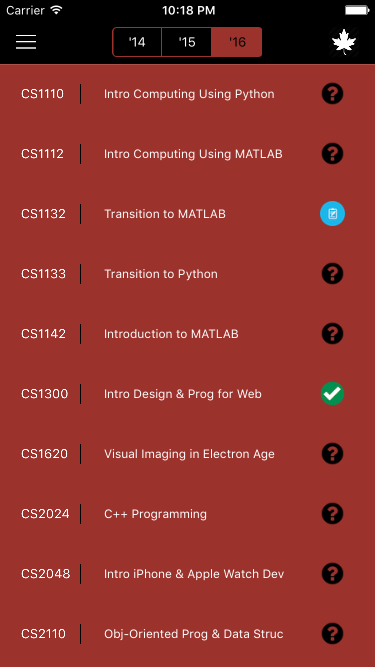
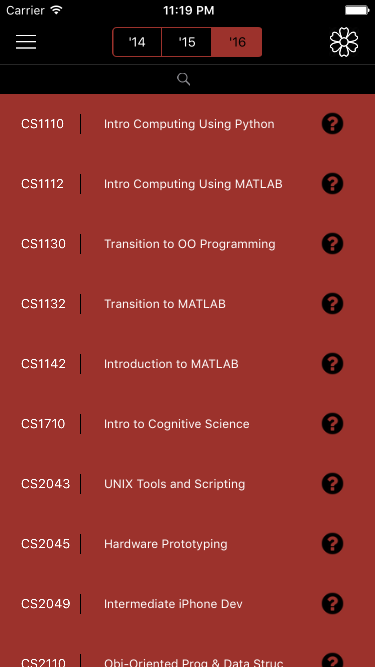
Bug fixes, ui changes, start writing vector classes

diff --git a/ClassGuide/Vector.swift b/ClassGuide/Vector.swift
@@ -1,0 +1,120 @@
+//
+//  Vector.swift
+//  ClassGuide
+//
+//  Created by Jesse Chen on 3/28/16.
+//  Copyright © 2016 Jesse Chen. All rights reserved.
+//
+
+import Foundation
+
+protocol Vector {
+    var requiredCourses: Int { get }
+    var completed: Bool { get set }
+    func updateProgress(takenCourses: NSMutableSet, plannedCourses: NSMutableSet)
+    func resetProgress()
+}
+
+class Renaissance: Vector {
+    let requiredCourses = 4
+    var completed: Bool
+    
+    //requires 4 Fxxx courses
+    var FxxxCourses = 0
+    //requires 2 different hundredths digits
+    var differentHundredths = 0
+    //requires at least one of the hundredths to be 2 or 8
+    var hundredthsIs2or8 = false
+    var seenHundredths: [Int] = []
+    
+    internal init() {
+        completed = false
+    }
+    
+    func updateProgress(takenCourses: NSMutableSet, plannedCourses: NSMutableSet) {
+        resetProgress()
+        var relevantCourses: [Course] = []
+        relevantCourses.appendContentsOf(takenCourses.allObjects as! [Course])
+        relevantCourses.appendContentsOf(plannedCourses.allObjects as! [Course])
+        for course in relevantCourses {
+            let courseIsFXXX = isFXXX(course)
+            if courseIsFXXX { FxxxCourses += 1 }
+            if courseIsFXXX && !seenHundredths.contains(getHundredthsDigit(course)) {
+                seenHundredths.append(getHundredthsDigit(course))
+                differentHundredths += 1
+            }
+            if getHundredthsDigit(course) == 2 || getHundredthsDigit(course) == 8 {
+                hundredthsIs2or8 = true
+            }
+        }
+        
+        if FxxxCourses >= 4 && differentHundredths >= 2 && hundredthsIs2or8 {
+            completed = true
+        }
+    }
+    
+    func resetProgress() {
+        FxxxCourses = 0
+        differentHundredths = 0
+        hundredthsIs2or8 = false
+        seenHundredths = []
+    }
+}
+
+class AI: Vector {
+    let requiredCourses = 4
+    var completed: Bool
+    var takenCS4700 = false
+    var takenCS4701 = false
+    var takenF78xOrF75x = false
+    var takenF7xxOr4300orF67xor5846 = false
+    
+    internal init() {
+        completed = false
+    }
+    
+    func updateProgress(takenCourses: NSMutableSet, plannedCourses: NSMutableSet) {
+        var relevantCourses: [Course] = []
+        relevantCourses.appendContentsOf(takenCourses.allObjects as! [Course])
+        relevantCourses.appendContentsOf(plannedCourses.allObjects as! [Course])
+        for course in relevantCourses {
+            if course.courseNumber == 4700 { takenCS4700 = true }
+            if course.courseNumber == 4701 { takenCS4701 = true }
+            if checkF78xOrF75x(course) { takenF78xOrF75x = true }
+            if checkF7xxor4300orF67xor5846(course) { takenF7xxOr4300orF67xor5846 = true }
+        }
+    }
+    
+    func resetProgress() {
+        takenCS4700 = false
+        takenCS4701 = false
+        takenF78xOrF75x = false
+        takenF7xxOr4300orF67xor5846 = false
+    }
+    
+    func checkF78xOrF75x(course: Course) -> Bool {
+        return getHundredthsDigit(course) == 7 && (getTenthsDigit(course) == 8 || getTenthsDigit(course) == 5) && isFXXX(course)
+    }
+    
+    func checkF7xxor4300orF67xor5846(course: Course) -> Bool {
+        return (
+            (isFXXX(course) && getHundredthsDigit(course) == 7) ||
+            course.courseNumber == 4300 ||
+            (isFXXX(course) && getHundredthsDigit(course) == 6 && getTenthsDigit(course) == 7) ||
+            course.courseNumber == 5846
+        )
+    }
+}
+
+
+
+
+
+
+
+
+
+
+
+
+

diff --git a/ClassGuide/CourseTableViewController.swift b/ClassGuide/CourseTableViewController.swift
@@ -41,10 +41,10 @@ class CourseTableViewController: UITableViewController, CoreDataDelegate, UISear
         super.viewDidLoad()
         if (initialLoad) {
             handleInitialLoad()
-        } else {
-            processCourses()
-            tableView.reloadData()
         }
+        processCourses()
+        tableView.reloadData()
+        
     }
     
     override func viewDidAppear(animated: Bool) {
@@ -120,6 +120,7 @@ class CourseTableViewController: UITableViewController, CoreDataDelegate, UISear
             print("Didn't have to fetch")
         }
         
+        navigationItem.title = "CS Courses"
         tableView.backgroundColor = .blackColor()
         tableView.registerNib(UINib(nibName: "CourseTableViewCell", bundle: nil), forCellReuseIdentifier: "HomeCell")
         addRevealVCButton()
@@ -135,6 +136,8 @@ class CourseTableViewController: UITableViewController, CoreDataDelegate, UISear
         searchBar = UISearchBar(frame: CGRectMake(0, 0, UIScreen.mainScreen().bounds.width, 30))
         searchBar.searchBarStyle = .Minimal
         searchBar.tintColor = UIColor.cornellRed
+        let textFieldInsideSearchBar = searchBar.valueForKey("searchField") as? UITextField
+        textFieldInsideSearchBar?.textColor = UIColor.cornellRed
         searchBar.delegate = self
         tableView.tableHeaderView = searchBar
     }
@@ -220,13 +223,13 @@ class CourseTableViewController: UITableViewController, CoreDataDelegate, UISear
         if searchQuery != "" {
             desiredCourses = desiredCourses.filter({ (c) -> Bool in
                 let options: NSStringCompareOptions = [.CaseInsensitiveSearch, .DiacriticInsensitiveSearch]
-                let courseIDFound: () -> Bool = {
-                    return String(c.courseID).rangeOfString(self.searchQuery, options: options) != nil
+                let courseNumberFound: () -> Bool = {
+                    return "\(c.courseNumber)".rangeOfString(self.searchQuery, options: options) != nil
                 }
                 let titleFound: () -> Bool = {
                     return c.titleLong.rangeOfString(self.searchQuery, options: options) != nil
                 }
-                return (courseIDFound() || titleFound())
+                return (courseNumberFound() || titleFound())
             })
         }
     }
@@ -274,6 +277,11 @@ class CourseTableViewController: UITableViewController, CoreDataDelegate, UISear
             plannedCourses.removeObject(course)
         }
         course.status = status
+        if course.status == .PlanTo {
+            plannedCourses.addObject(course)
+        } else if course.status == .Taken {
+            takenCourses.addObject(course)
+        }
         managedContext.deleteObject(courseToNSManagedObject[course]!) //delete the old entity
         createCourseEntity(course)
     }

diff --git a/ClassGuide/SidebarTableViewController.swift b/ClassGuide/SidebarTableViewController.swift
@@ -17,9 +17,12 @@ class SidebarTableViewController: UITableViewController {
     
     override func viewDidLoad() {
         super.viewDidLoad()
+        self.automaticallyAdjustsScrollViewInsets = false
+        let inset = UIEdgeInsetsMake(64, 0, 0, 0)
+        tableView.contentInset = inset
         tableView.delegate = self
+        tableView.backgroundColor = UIColor.darkGrey
         tableView.separatorStyle = .SingleLine
-        tableView.backgroundColor = .blackColor()
         tableView.registerNib(UINib(nibName: "SidebarTableViewCell", bundle: nil), forCellReuseIdentifier: "sidebarCell")
     }
 
@@ -34,7 +37,7 @@ class SidebarTableViewController: UITableViewController {
     }
 
     override func tableView(tableView: UITableView, numberOfRowsInSection section: Int) -> Int {
-        return 3
+        return 5
     }
 
     override func tableView(tableView: UITableView, cellForRowAtIndexPath indexPath: NSIndexPath) -> UITableViewCell {
@@ -50,6 +53,12 @@ class SidebarTableViewController: UITableViewController {
         case 2:
             cell.iconImageView.image = UIImage(named: "majorsIcon")
             cell.categoryLabel.text = "Requirements"
+        case 3:
+            cell.iconImageView.image = UIImage(named: "settingsIcon")
+            cell.categoryLabel.text = "Settings"
+        case 4:
+            cell.iconImageView.image = UIImage(named: "informationIcon")
+            cell.categoryLabel.text = "Information"
         default:
             break;
         }
@@ -82,11 +91,9 @@ class SidebarTableViewController: UITableViewController {
         if let front = self.revealVC.frontViewController {
             if desiredVC == front {
                 self.revealVC.setFrontViewPosition(.Left, animated: true)
-                print("going into base case")
                 return
             }
         }
-        if desiredVC == manageVC { print("We have manageVC") }
         navController.setViewControllers([desiredVC], animated: false)
         revealVC.setFrontViewPosition(.Left, animated: true)
     }

diff --git a/ClassGuide/ManageTableViewController.swift b/ClassGuide/ManageTableViewController.swift
@@ -19,9 +19,11 @@ class ManageTableViewController: UITableViewController, CoreDataDelegate {
     var courseToNSManagedObject: [Course: NSManagedObject]!
         
     override func viewDidLoad() {
+        print("viewdidload")
         super.viewDidLoad()
         tableView.registerNib(UINib(nibName: "CourseTableViewCell", bundle: nil), forCellReuseIdentifier: "CourseCell")
         tableView.backgroundColor = .blackColor()
+        navigationItem.title = "Manage"
         relevantCourses.appendContentsOf(takenCourses.allObjects as! [Course])
         relevantCourses.appendContentsOf(plannedCourses.allObjects as! [Course])
         addRevealVCButton()
@@ -29,6 +31,10 @@ class ManageTableViewController: UITableViewController, CoreDataDelegate {
     }
     
     override func viewDidAppear(animated: Bool) {
+        print("viewdidappear")
+        relevantCourses = []
+        relevantCourses.appendContentsOf(takenCourses.allObjects as! [Course])
+        relevantCourses.appendContentsOf(plannedCourses.allObjects as! [Course])
         tableView.reloadData()
     }
 
@@ -114,9 +120,14 @@ class ManageTableViewController: UITableViewController, CoreDataDelegate {
         if course.status == .PlanTo {
             plannedCourses.removeObject(course)
         } else if course.status == .Taken {
-            plannedCourses.removeObject(course)
+            takenCourses.removeObject(course)
         }
         course.status = status
+        if course.status == .PlanTo {
+            plannedCourses.addObject(course)
+        } else if course.status == .Taken {
+            takenCourses.addObject(course)
+        }
         managedContext.deleteObject(courseToNSManagedObject[course]!) //delete the old entity
         createCourseEntity(course)
     }

diff --git a/ClassGuide/DetailViewController.swift b/ClassGuide/DetailViewController.swift
@@ -23,6 +23,7 @@ class DetailViewController: UIViewController {
     @IBOutlet weak var consent: UILabel!
     @IBOutlet weak var prerequisites: UILabel!
     @IBOutlet weak var descriptionView: UITextView!
+    @IBOutlet weak var semester: UILabel!
     
     override func viewDidLoad() {
         super.viewDidLoad()
@@ -39,6 +40,7 @@ class DetailViewController: UIViewController {
         courseTitle.text = course.titleShort
         courseSubjectNumber.text = "\(course.subject)\(course.courseNumber)"
         fullTitle.text = "Full title: \(course.titleLong)"
+        semester.text = "Semester: \(course.semester.rawValue)"
         professors.text = "Instructors: \(course.instructors)"
         distribution.text = "Distribution requirement: \(course.distributionRequirement.rawValue)"
         special.text = "Special requirement: " + printSpecialAttributes(course).chopSuffix(2)

diff --git a/ClassGuide/CourseAnalyzer.swift b/ClassGuide/CourseAnalyzer.swift
@@ -39,3 +39,15 @@ public func printSpecialAttributes(course: Course) -> String {
     //remove range
     return specialString
 }
+
+public func isFXXX(course: Course) -> Bool {
+    return course.courseNumber >= 4000 && course.courseNumber != 4820 && course.courseNumber != 4999
+}
+
+public func getHundredthsDigit(course: Course) -> Int {
+    return ((course.courseNumber % 100) / 10)
+}
+
+public func getTenthsDigit(course: Course) -> Int {
+    return (course.courseNumber % 10)
+}

diff --git a/ClassGuide/StyleExtension.swift b/ClassGuide/StyleExtension.swift
@@ -10,4 +10,5 @@ import Foundation
 
 extension UIColor {
     @nonobjc static let cornellRed = UIColor(red: 156.0/255.0, green: 50.0/255.0, blue: 44.0/255.0, alpha: 1.0)
+    @nonobjc static let darkGrey = UIColor(red: 26.0/255.0, green: 26.0/255.0, blue: 26.0/255.0, alpha: 1.0)
 }
